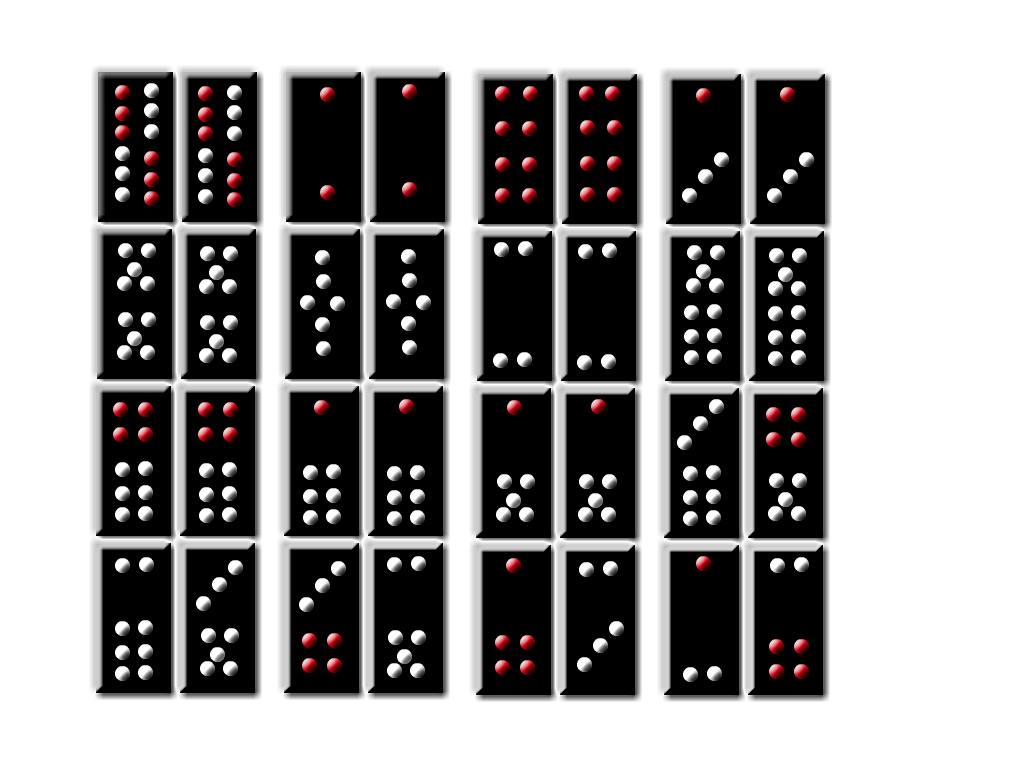
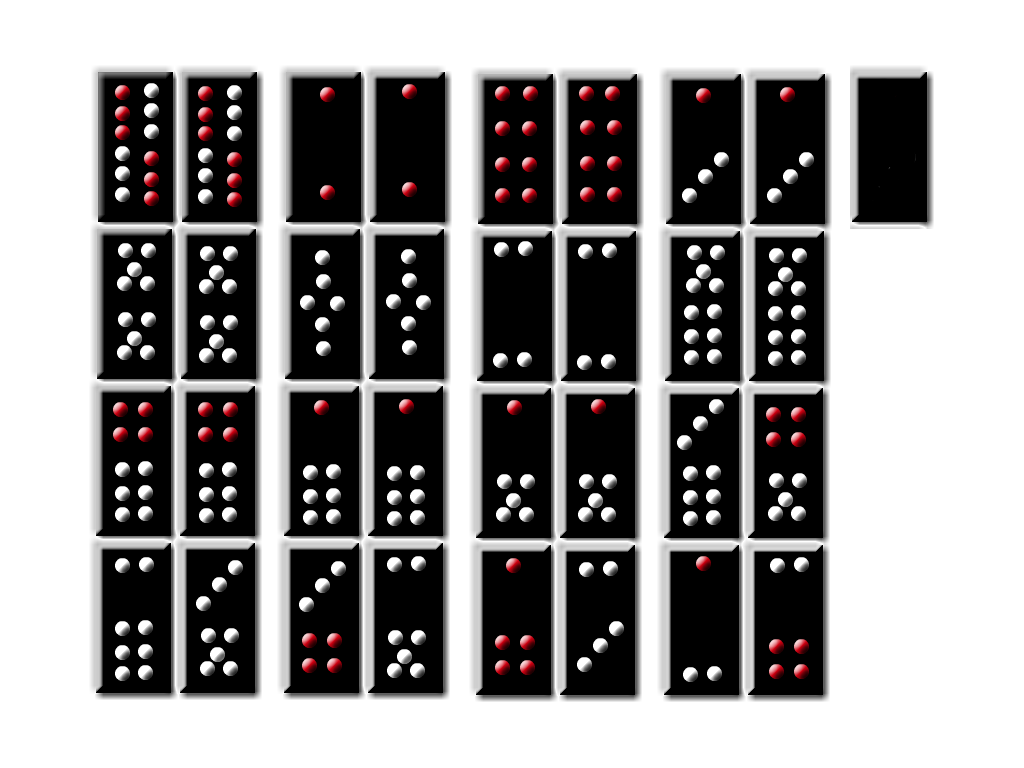
Improved Graphics
added in blank titles, -5 bet button and moved buttons around

Changed region(s): [[0.8125, 0.0625, 0.9375, 0.3125]]

diff --git a/client.js b/client.js
@@ -377,14 +377,17 @@ function getRoundWinner(bankerTiles, bankerSelection, opTiles, opSelection){
 var tileWidth = 75;
 var tileHeight = 150;
 var tileScale = .5;
+var titleBlankCropInfo = [850,70]; // [x,y]
 var bankerCropInfo = [15,15,100,100];
-var bankerButtonInfo = [100,55,140,165,225]; //[width, height, x, y for take, y for skip]
+var bet5CropInfo = [540,40,100];   //[x cord, y for +, y for -]
+var bankerButtonInfo = [105,55,140,165,225]; //[width, height, x, y for take, y for skip]
 var handLockInfo = [100,55,265,35,100]; //[width, height ,x cord, y for lock, y for unlock]
-var betLockInfo = [100,55,142,35,100]; //[width, height, x cord, y for lock, y for unlock]
-var bet5ButtonInfo = [50,500,50,25];    //xpos,ypos,width,height
-var betLockButtonInfo = [50,400,50,25]; //xpos,ypos,width,height
-var selectionLockButtonInfo = [50,450,50,25]; //xpos,ypos,width,height
-var bankerSelectionInfo = [1000,500,50,25]; //xpos,ypos,width,height
+var betLockInfo = [100,55,405,35,100]; //[width, height, x cord, y for lock, y for unlock]
+var bet5ButtonInfo = [600,280,52,52];    //xpos,ypos,width,height
+var betDown5ButtonInfo = [450,280,52,52]; //xpos,ypos,width,height
+var betLockButtonInfo = [500,280,50,25]; //xpos,ypos,width,height
+var selectionLockButtonInfo = [1000,480,50,25]; //xpos,ypos,width,height
+var bankerSelectionInfo = [1000,540,50,25]; //xpos,ypos,width,height
 var dealerBankerSymbolLocation = [550,25]; 
 var bankerSymbolLocations = [[78,156],[117,319],[270,431],[487,459],[718,457],[893,352],[1018,156]];
 
@@ -543,12 +546,16 @@ $(function(){
 
     drawTileBack = function(x,y){
         ctx.fillStyle = "#000000";
-        ctx.fillRect(x,y,tileWidth*tileScale,tileHeight*tileScale);
+        //ctx.fillRect(x,y,tileWidth*tileScale,tileHeight*tileScale);
+      	 ctx.drawImage(tileImage,titleBlankCropInfo[0],titleBlankCropInfo[1],tileWidth,tileHeight,x,y,tileWidth*tileScale,tileHeight*tileScale);
     }
 
     drawBettingButtons = function(){
         ctx.fillStyle = "#000000";
-        ctx.fillRect(bet5ButtonInfo[0],bet5ButtonInfo[1],bet5ButtonInfo[2],bet5ButtonInfo[3]);
+        //ctx.fillRect(bet5ButtonInfo[0],bet5ButtonInfo[1],bet5ButtonInfo[2],bet5ButtonInfo[3]);
+        
+        ctx.drawImage(buttonImage,bet5CropInfo[0],bet5CropInfo[1],bet5ButtonInfo[2],bet5ButtonInfo[3],bet5ButtonInfo[0],bet5ButtonInfo[1],bet5ButtonInfo[2],bet5ButtonInfo[3]);
+        ctx.drawImage(buttonImage,bet5CropInfo[0],bet5CropInfo[2],betDown5ButtonInfo[2],betDown5ButtonInfo[3],betDown5ButtonInfo[0],betDown5ButtonInfo[1],betDown5ButtonInfo[2],betDown5ButtonInfo[3]);
     }
     
     
@@ -592,7 +599,8 @@ $(function(){
     drawWagers = function(){
         ctx.fillStyle = "#000000";
         ctx.font = '20pt Calibri';
-        ctx.fillText("Wager: "+game.bet,c.width/2,400);
+        //ctx.fillText("Wager: "+game.bet,c.width/2,400);
+         ctx.fillText("$ "+game.bet,betLockButtonInfo[0]+20,betLockButtonInfo[1]+35);
         ctx.fillText("Dealer wager: "+game.minimumBet,c.width/2,200);
     }
 
@@ -776,13 +784,10 @@ $(function(){
         ctx.fillRect(0,0,c.width,c.height);
         ctx.drawImage(tableImage,0,0,c.width,c.height); 
 
-        //Draw pot
-        ctx.fillStyle = "#000000";
-        ctx.beginPath();
-        ctx.arc(c.width/2,c.height/2,50,0,2*Math.PI);
-        ctx.stroke();
-
+     
+		
         //Draw game state
+        ctx.fillStyle = "#000000";
         ctx.fillText("State: "+game.state,20,20);
 
         drawBetLockButton();
@@ -1050,10 +1055,10 @@ $(function(){   //document is ready
         var y = Math.floor((e.pageY-$("#game").offset().top));
         console.log(x+" "+y);
 
-        // Bet 5
+        // Bet +5
         if(x>bet5ButtonInfo[0] && x<bet5ButtonInfo[0]+bet5ButtonInfo[2] && y>bet5ButtonInfo[1] && y < bet5ButtonInfo[1]+bet5ButtonInfo[3]){
             //the bet 5 button has been clicked
-            console.log("bet 5 button clicked");
+            console.log("bet +5 button clicked");
             if(game.betsLocked || game.state != "betting" || game.banker == game.seat){
                 //do nothing
             }
@@ -1062,6 +1067,21 @@ $(function(){   //document is ready
             }
             updateGameInfo();
         }
+        
+        
+        // Bet -5
+         if(x>betDown5ButtonInfo[0] && x<betDown5ButtonInfo[0]+betDown5ButtonInfo[2] && y>betDown5ButtonInfo[1] && y < betDown5ButtonInfo[1]+betDown5ButtonInfo[3]){
+            //the bet 5 button has been clicked
+            console.log("bet -5 button clicked");
+            if(game.betsLocked || game.state != "betting" || game.banker == game.seat){
+                //do nothing
+            }
+            else if(game.wallet >= game.bet+5 && game.bet > 5){
+                game.bet = game.bet-5;
+            }
+            updateGameInfo();
+        }
+        
 
         // Bet lock button
         if(x>betLockButtonInfo[0] && x<betLockButtonInfo[0]+betLockInfo[0] && y > betLockButtonInfo[1] && y < betLockButtonInfo[1]+betLockInfo[1]){
